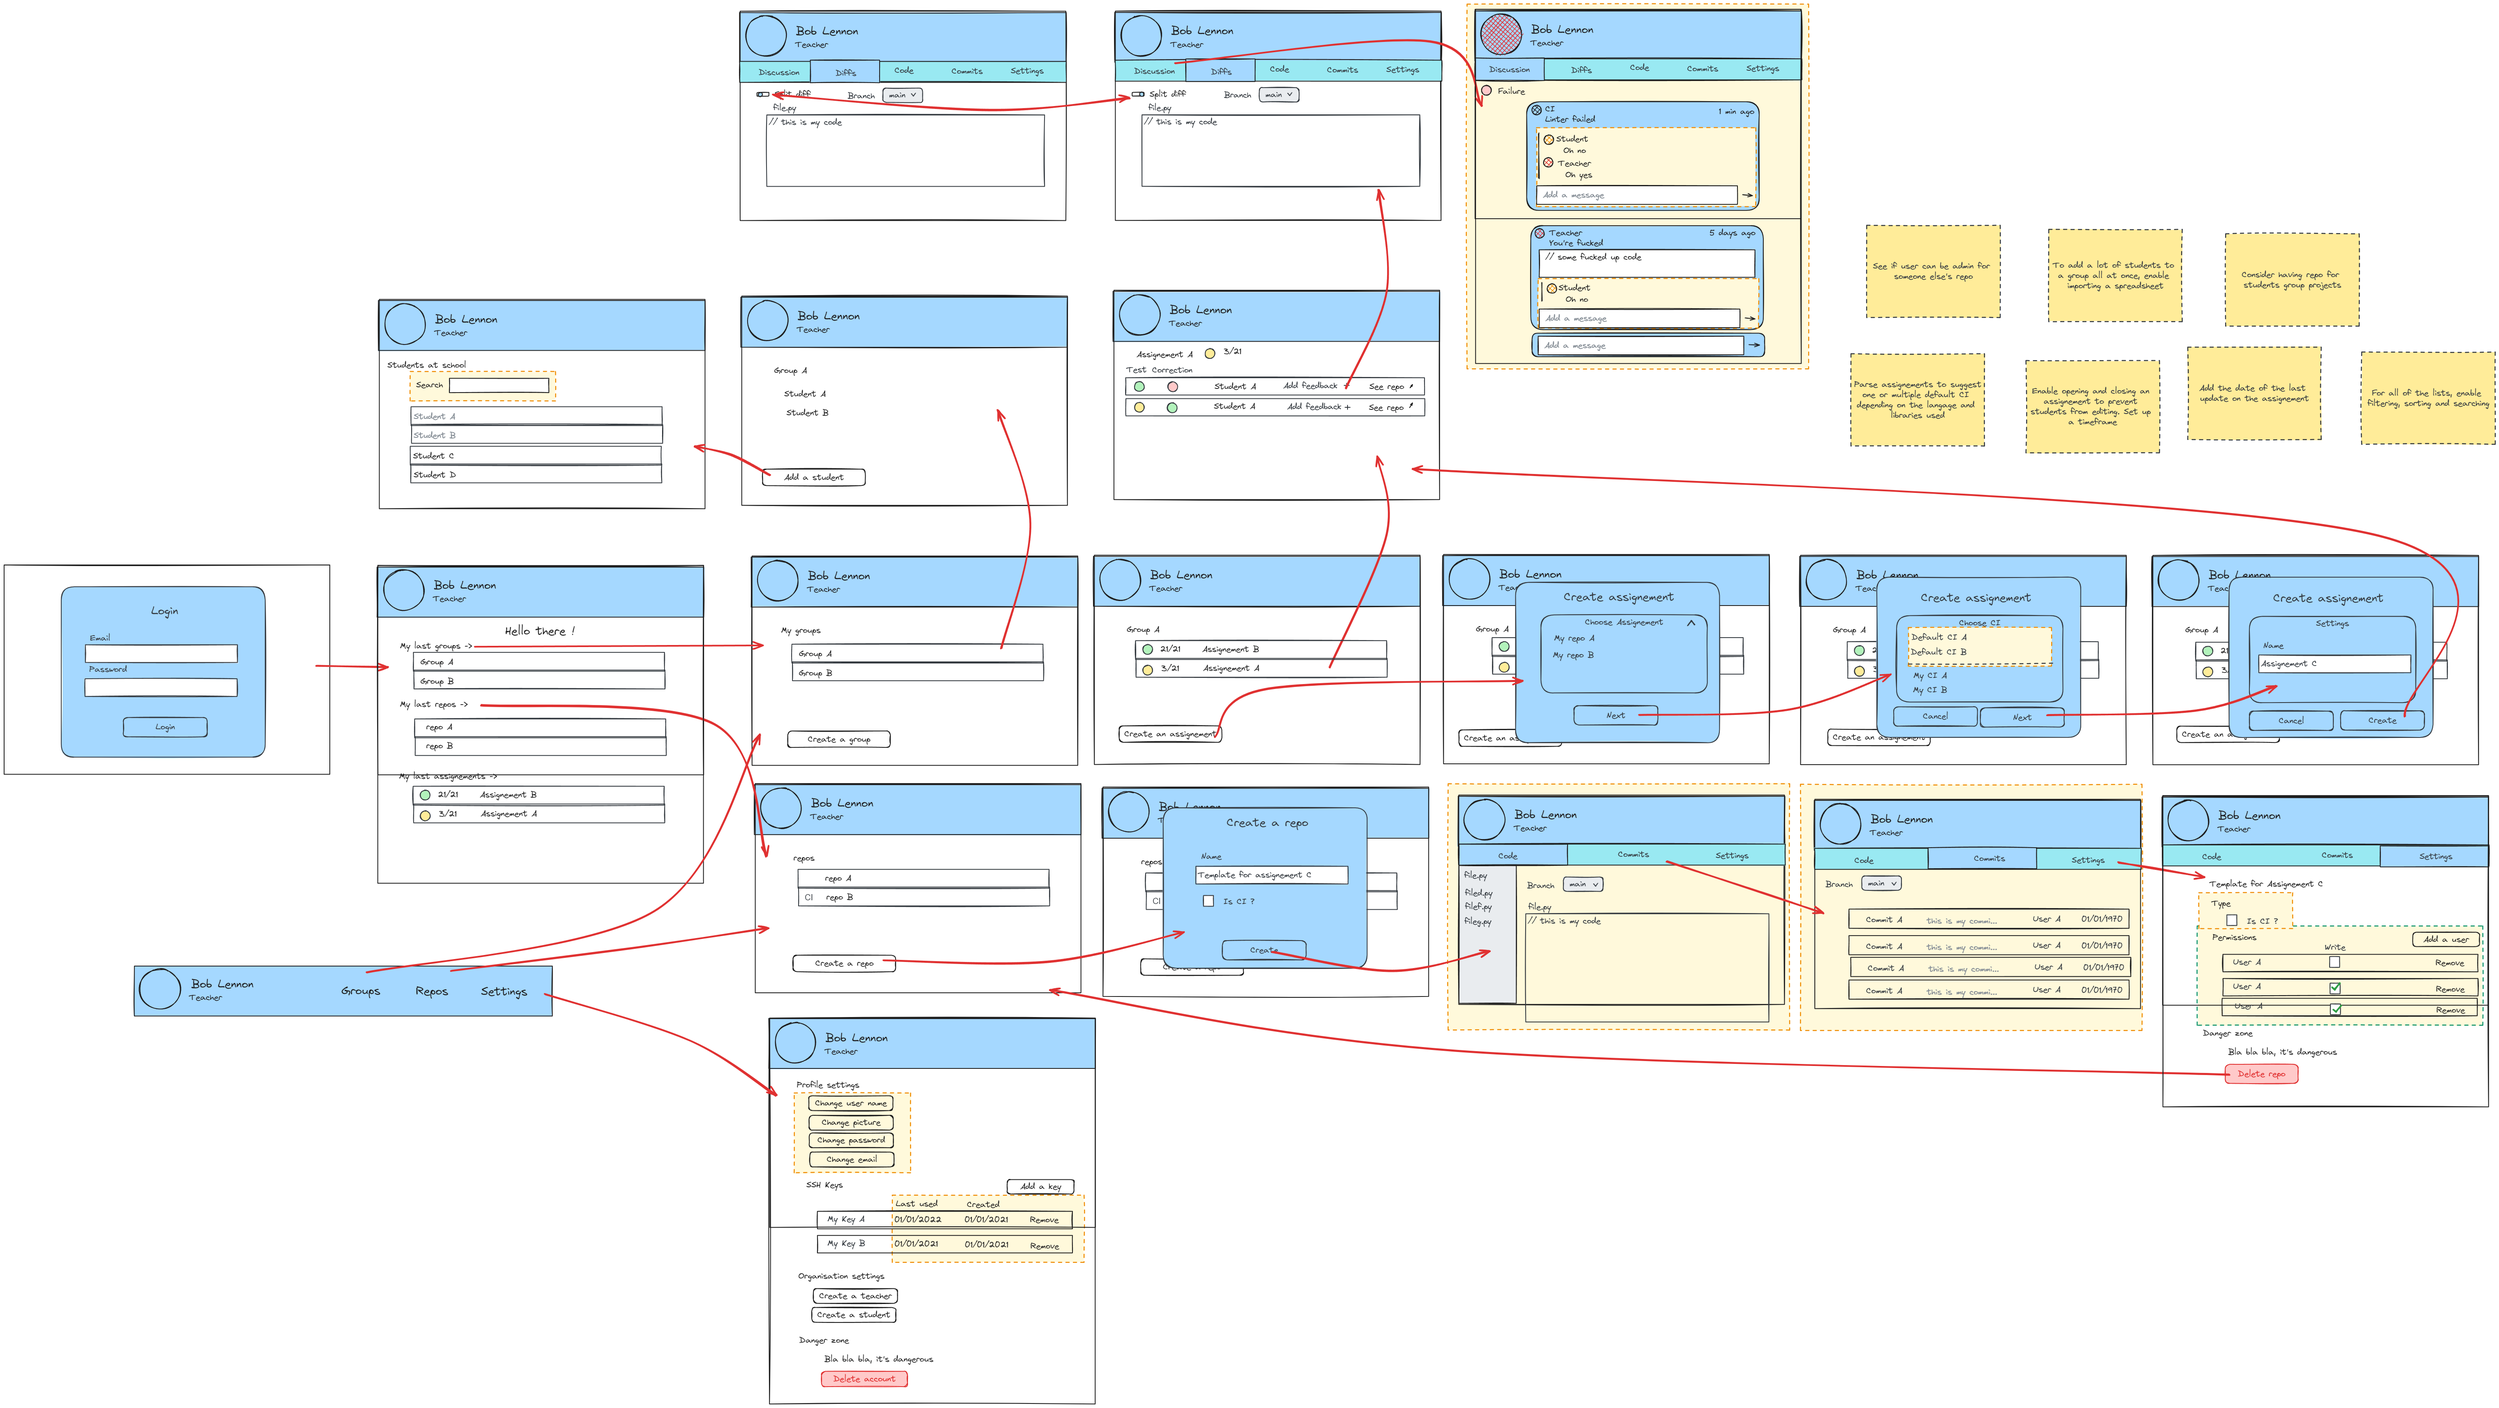
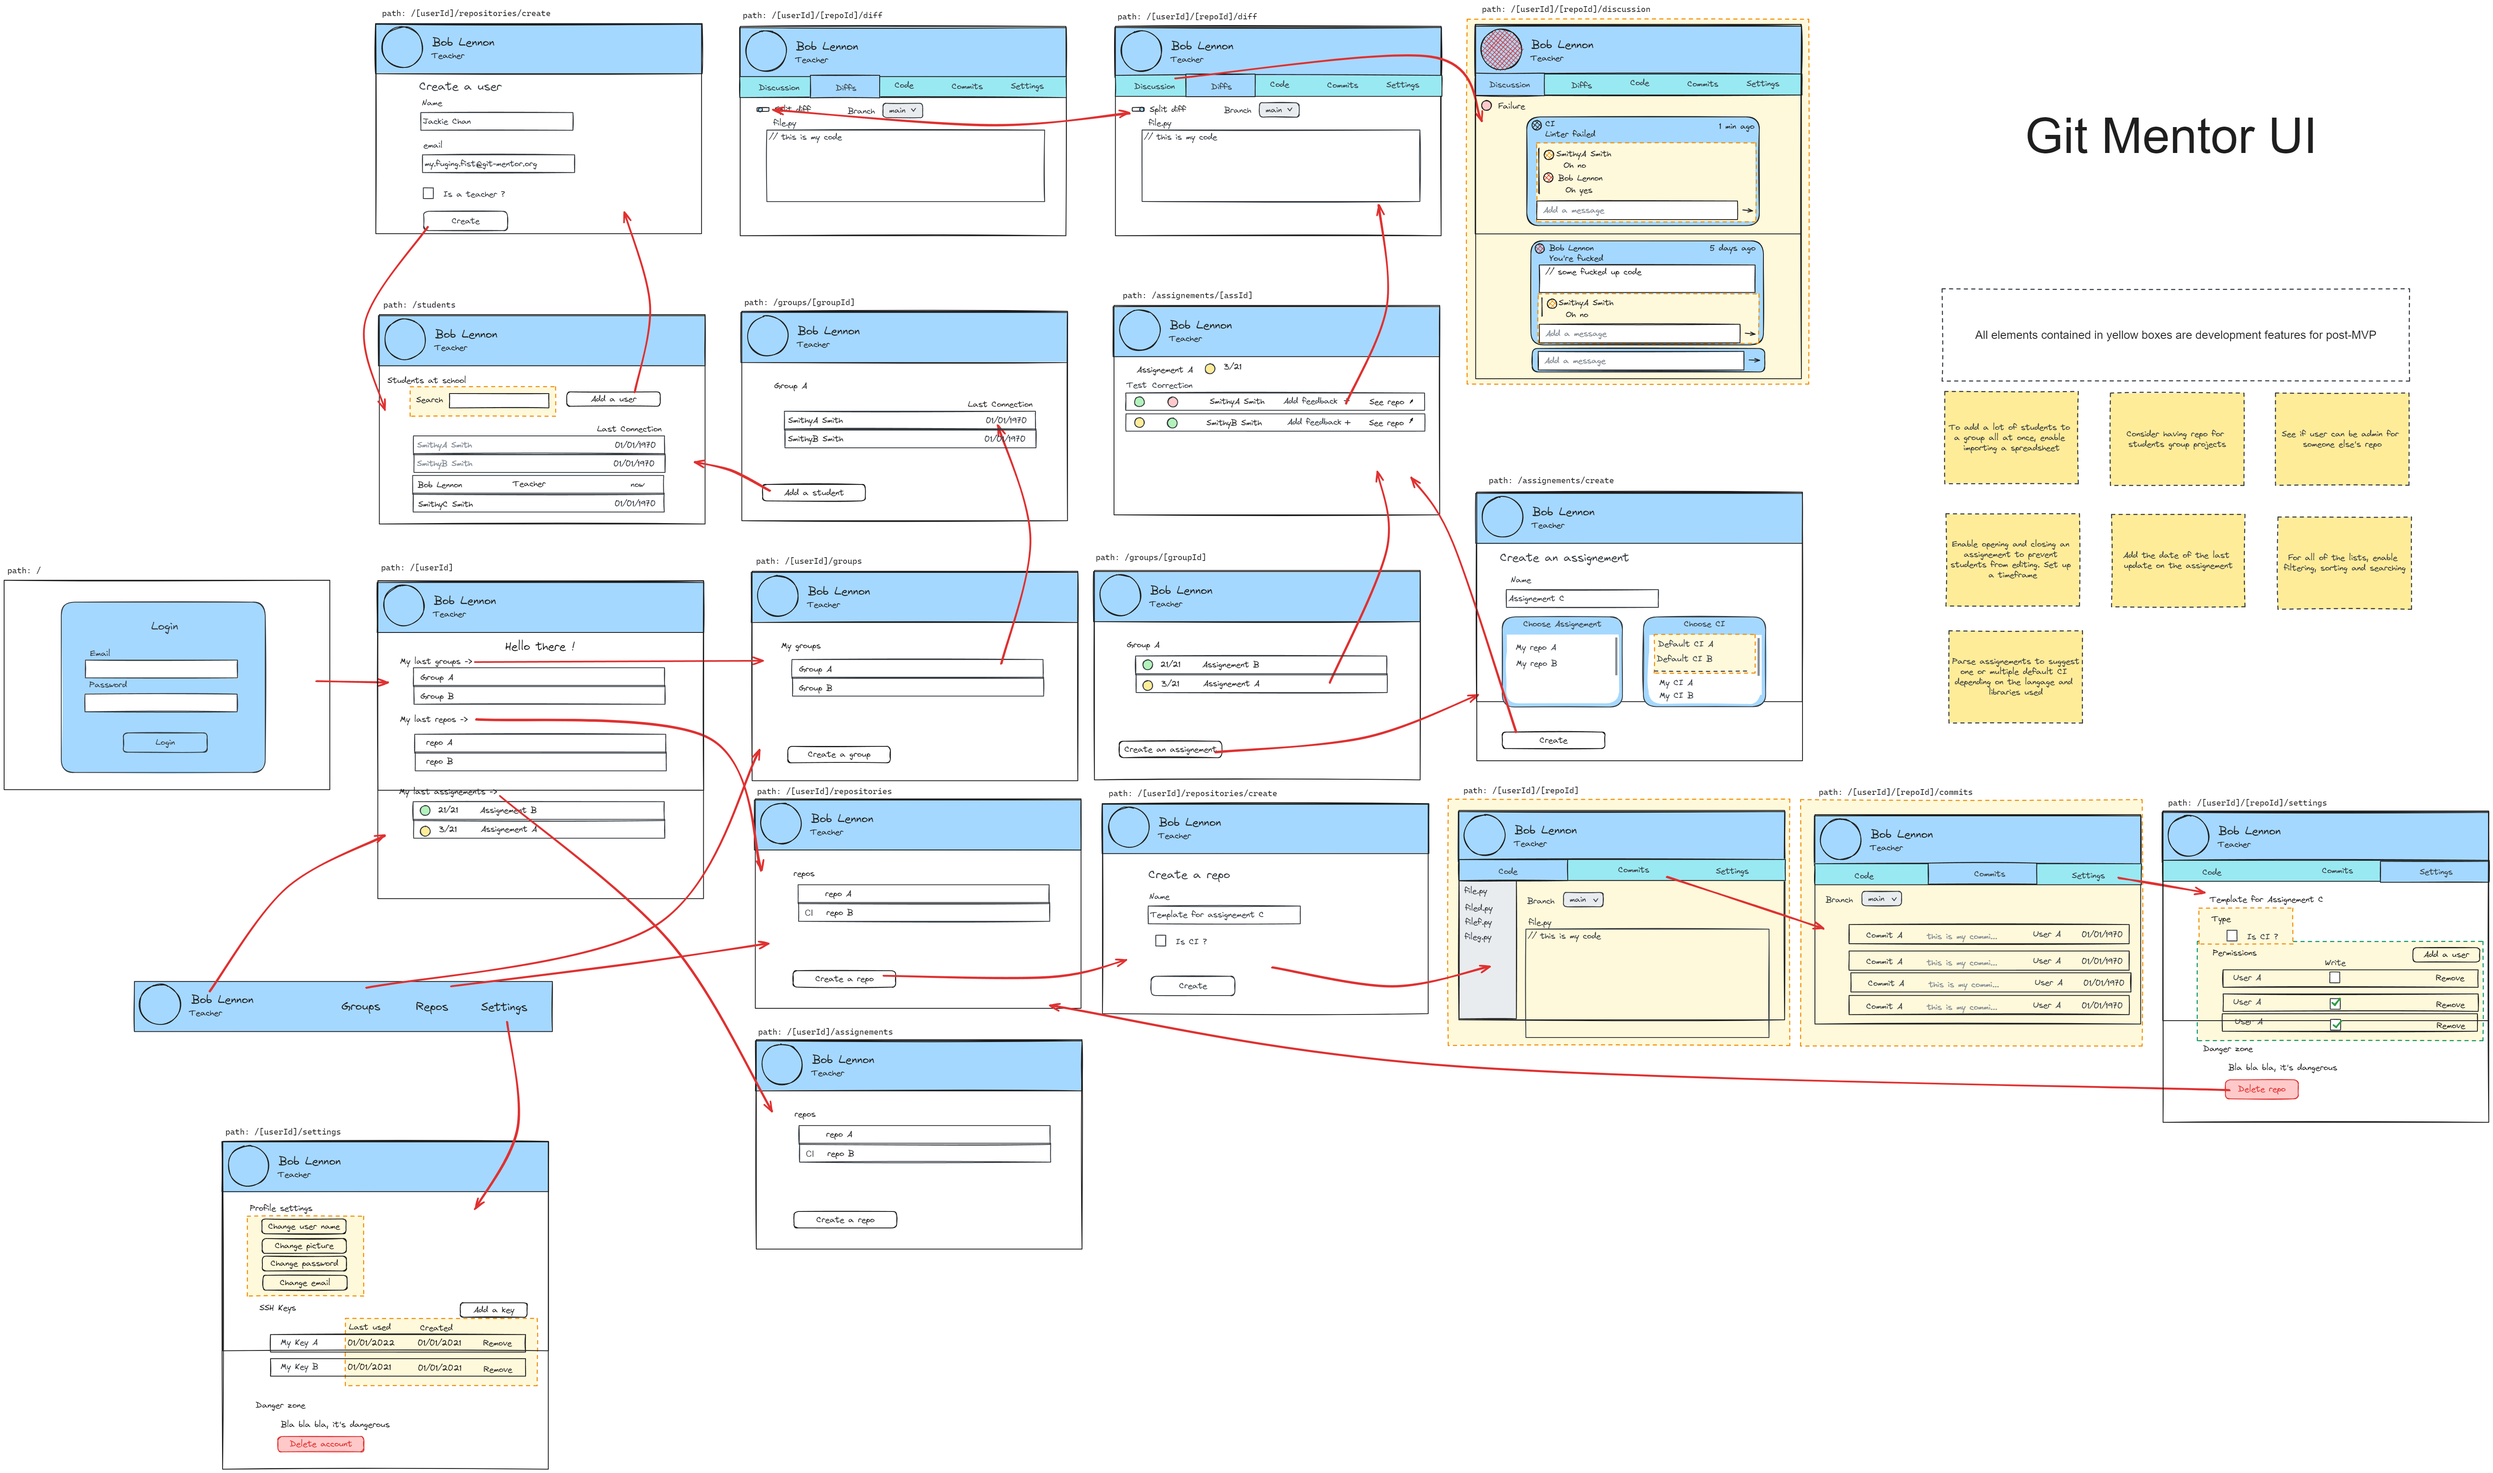
docs: link app routing to frontend design

diff --git a/docs/Frontend Design.md b/docs/Frontend Design.md
@@ -4,28 +4,38 @@
 ![Page Routing](./graphs/page_routing.png)
 
 ## Page Routing
-| route                         | Name                 | Description                             | Sprint     |
-|-------------------------------|----------------------|-----------------------------------------|------------|
-| /                             | HomePage             | User landing page with recaps           | User       |
-| /login                        | Authentication       | Sign up page                            | User       |
-| /settings                     | UserSettings         | User settings interface                 | User       |
-| /groups                       | GroupsList           | List of my groups                       | DataViz    |
-| /groups/create                | GroupCreator         | Creator for a group instance            | DataCreate |
-| /groups/student/[id]          | GroupStudents        | List of the students of a group         | DataViz    |
-| /groups/assignements/[id]     | GroupAssignements    | List of the assignements of a group     | DataViz    |
-| /students                     | AllStudents          | List of all students                    | DataViz    |
-| /students/create              | StudentCreator       | Creator for a student instance          | DataCreate |
-| /repositories                 | RepositoriesList     | List of my repositories                 | DataViz    |
-| /repositories/[id]            | RepositoryCode       | Repository's code                       | RepoViz    |
-| /repositories/[id]/commits    | RepositoryCommits    | Repository's commits                    | RepoViz    |
-| /repositories/[id]/settings   | RepositorySettings   | Repository's settings                   | RepoPlus   |
-| /repositories/[id]/discussion | RepositoryDiscussion | Repository's discussion (only for stud) | RepoPlus   |
-| /repositories/[id]/diffs      | RepositoryDiffs      | Repository's diffs (only for stud)      | RepoPlus   |
-| /repositories/create          | RepositoryCreator    | Creator for a repository instance       | DataCreate |
+| route                            | Name                  | Description                             | Sprint     |
+|----------------------------------|-----------------------|-----------------------------------------|------------|
+| /                                | Authentication        | Login page                              | Auth       |
+| /[userId]                        | UserOverview          | User landing page with recaps           | DataViz2   |
+| /[userId]/settings               | UserSettings          | User settings interface                 | Settings   |
+| /[userId]/groups                 | UserGroupsList        | List of my groups                       | DataViz1   |
+| /[userId]/assignements           | UserAssignementsList  | List of the assignements of my groups   | DataViz2   |
+| /[userId]/students               | UserStudentsList      | List of the students of my groups       | DataViz2   |
+| /[userId]/repositories           | RepositoriesList      | List of my repositories                 | DataViz1   |
+| /[userId]/repositories/create    | RepositoryCreator     | Creator for a repository instance       | DataCreate |
+| /[userId]/[reponame]             | RepositoryCode        | Repository's code                       | RepoViz    |
+| /[userId]/[reponame]/commits     | RepositoryCommits     | Repository's commits                    | RepoViz    |
+| /[userId]/[reponame]/settings    | RepositorySettings    | Repository's settings                   | Settings   |
+| /[userId]/[reponame]/discussion  | RepositoryDiscussion  | Repository's discussion (only for stud) | Discussion |
+| /[userId]/[reponame]/diffs       | RepositoryDiffs       | Repository's diffs (only for stud)      | RepoViz    |
+| /groups                          | GroupsList            | List of all of the groups               | DataViz2   |
+| /groups/create                   | GroupCreator          | Creator for a group instance            | DataCreate |
+| /groups/settings                 | GroupSettings         | Group settings interface                | Settings   |
+| /groups/[groupId]/student        | GroupStudents         | List of the students of a group         | DataViz1   |
+| /groups/[groupId]/assignements   | GroupAssignements     | List of the assignements of a group     | DataViz1   |
+| /assignements/create             | AssignementCreator    | Creator for an assignement instance     | DataCreate |
+| /assignements/[assId]            | AssignementRepos      | List of the repos of an assignement     | DataViz1   |
+| /assignements/[assId]/settings   | AssignementSettings   | Assignement settings interface          | Settings   |
+| /assignements/[assId]/discussion | AssignementDiscussion | Overview of an assignement with a chat  | Discussion |
+| /students                        | StudentsList          | List of all students                    | DataViz1   |
+| /students/create                 | StudentCreator        | Creator for a student instance          | DataCreate |
 
 ## Sprint priority
-1. DataViz: display the tables and navigate inside the database
-2. User: create a friendly welcome experience for users
-3. DataCreate: enable the creation of data instances
-4. RepoViz: enable the interactions with a repository
-5. RepoPlus: unlock more advanced features for repositories
+1. DataViz1: display the first tables and navigate inside the database (6 pages)
+2. Auth: Manage authentication (1 page)
+3. DataCreate: enable the creation of data instances (4 pages)
+4. RepoViz: enable the interactions with a repository (3 pages)
+5. Settings: Manage various settings (4 page)
+6. DataViz2: Advanced data visualization (4 pages)
+7. Discussion: Enable user discussions (2 page)
